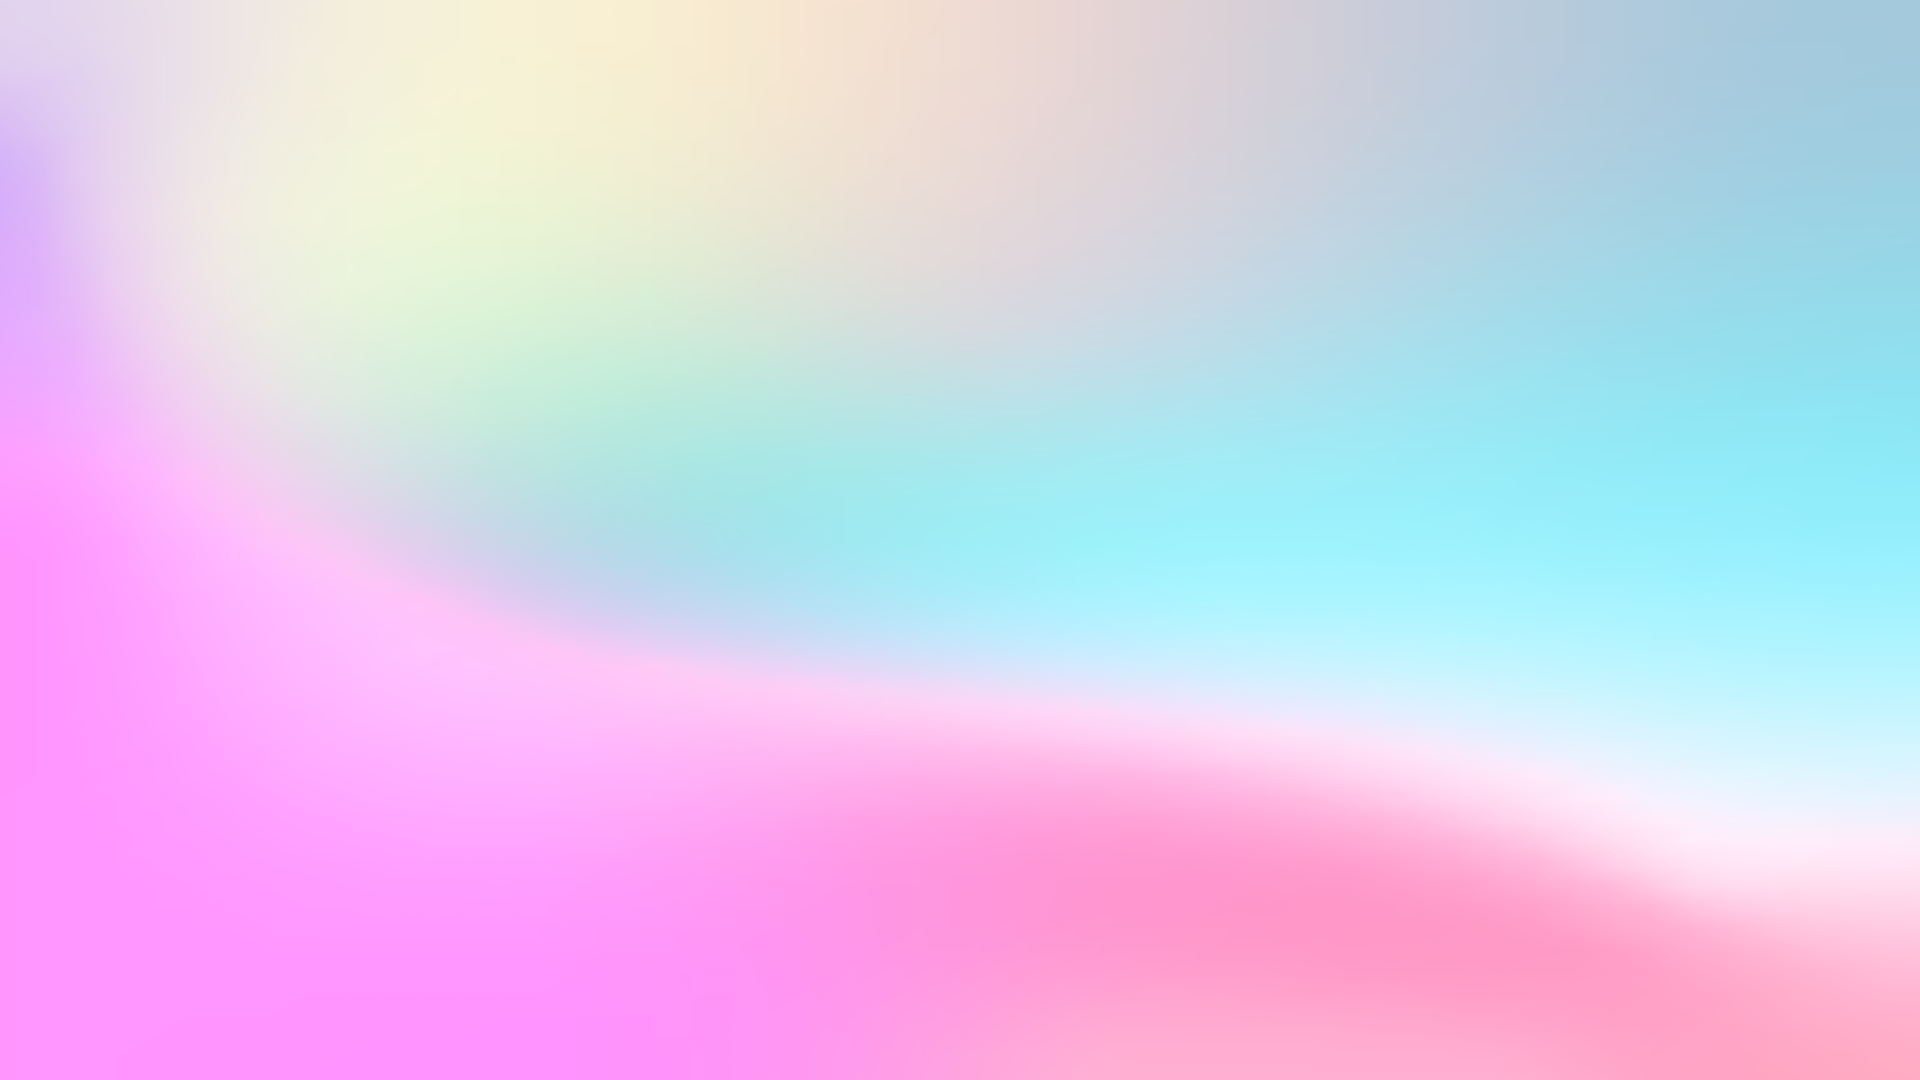
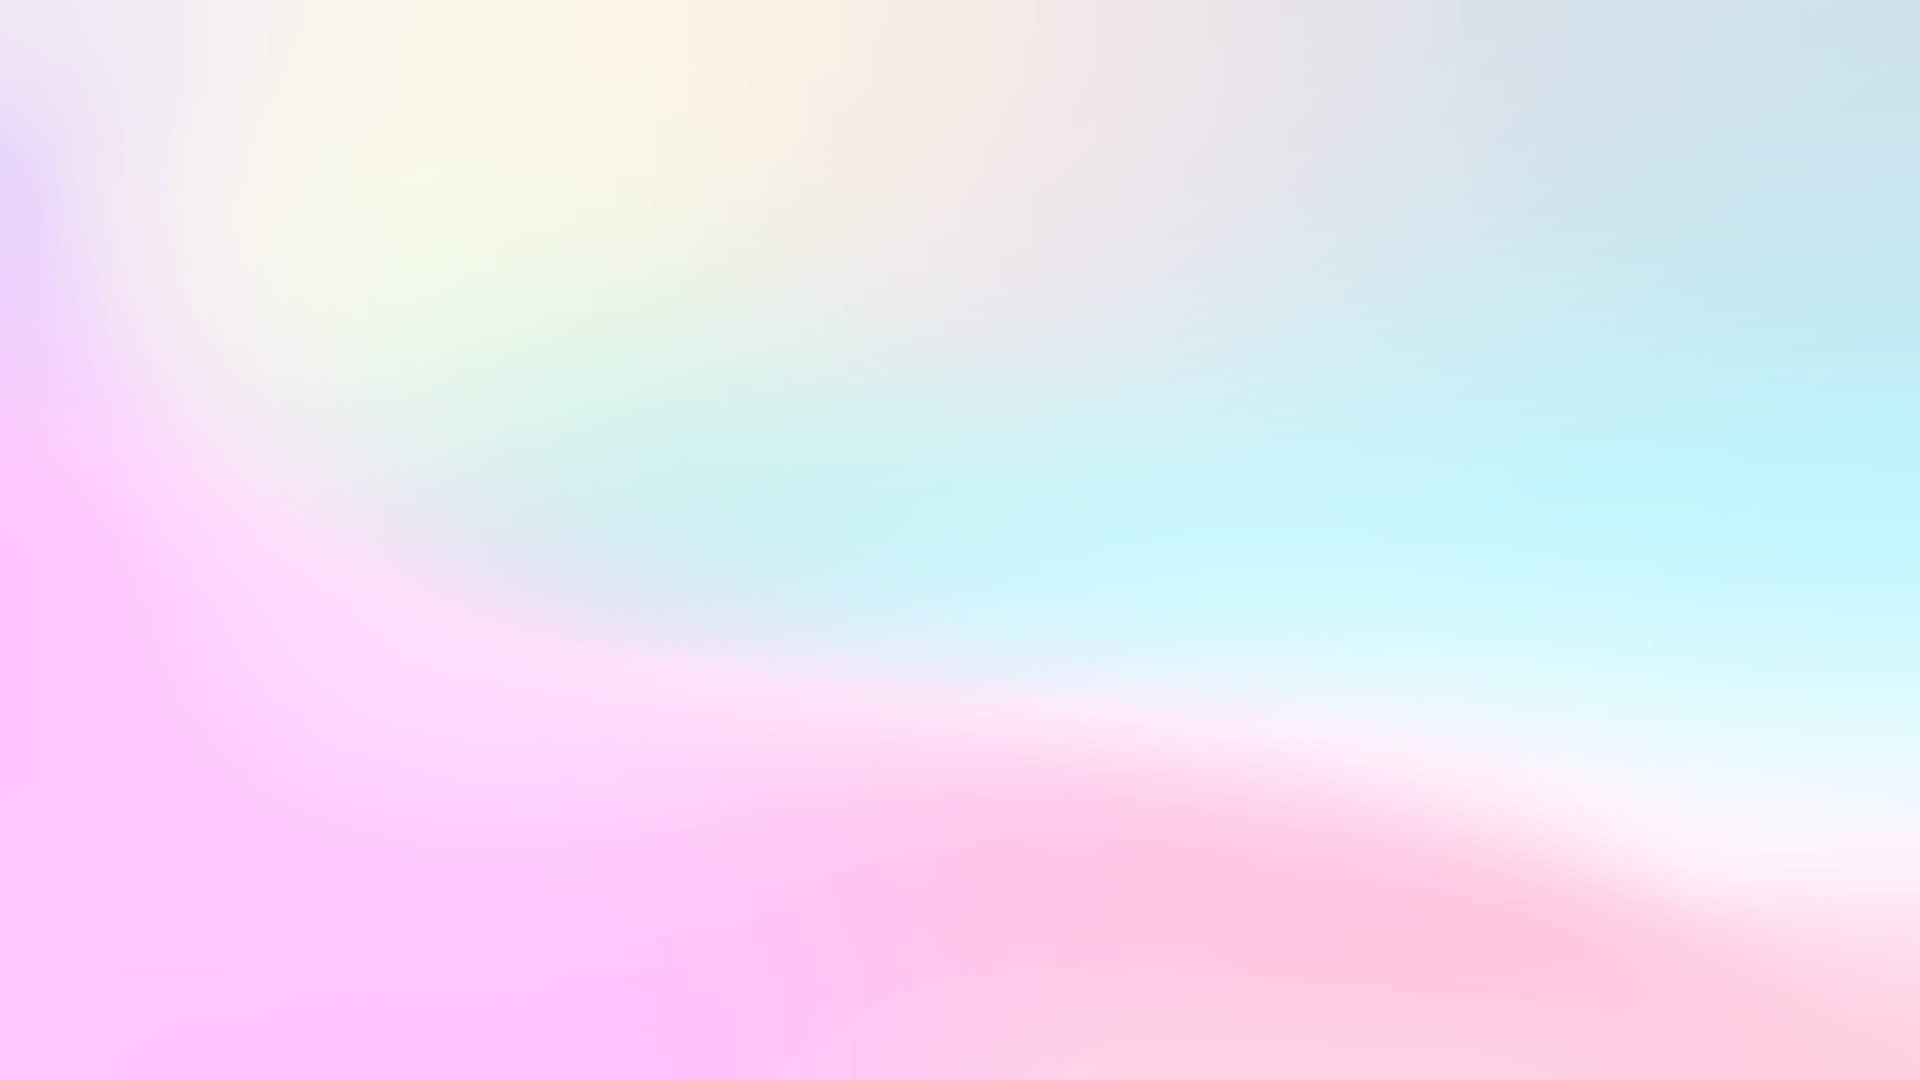
fix: index background bug

diff --git a/pages/index.js b/pages/index.js
@@ -67,7 +67,7 @@ const Page = ({ title }) => {
           </HTMLContent>
           <HTMLContent
             domContent={domContent}
-            bgColor="#f2f3fc url('Background_2.png') no-repeat"
+            bgColor="#f2f3fc url('Background3.png') no-repeat"
             modelPath='/website_avatar_lanc_v15Draco.gltf'
             position={-500}
           >
